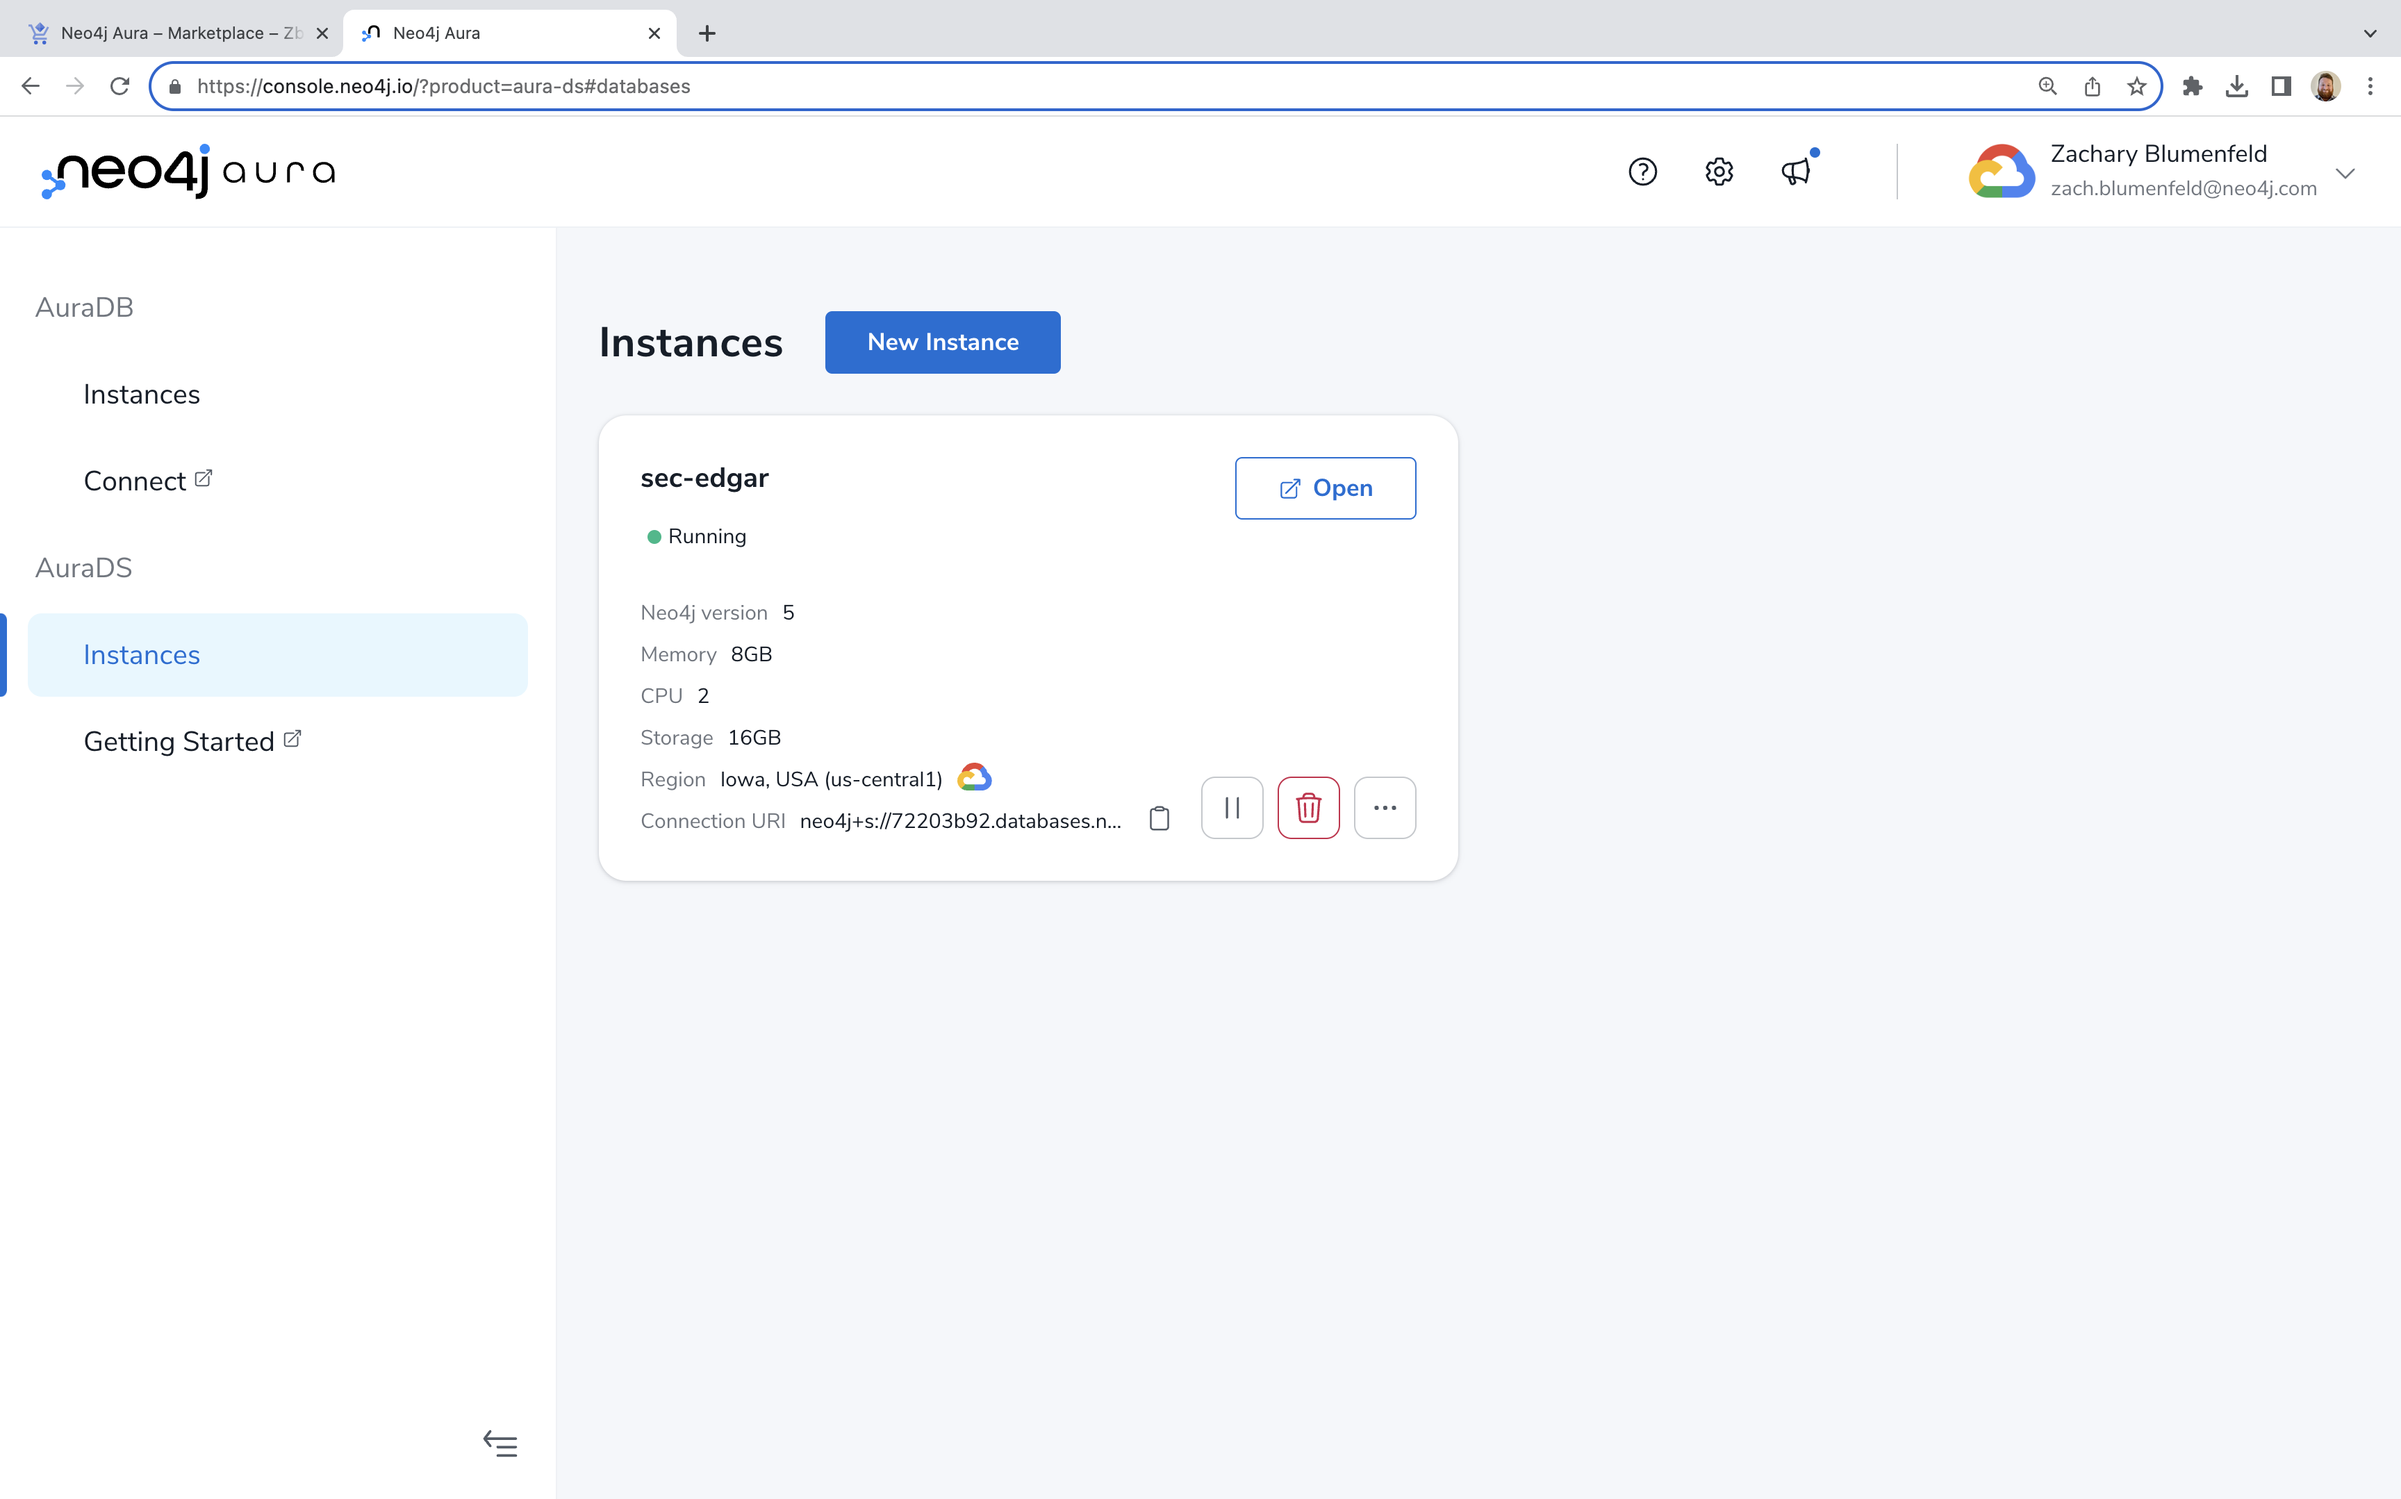
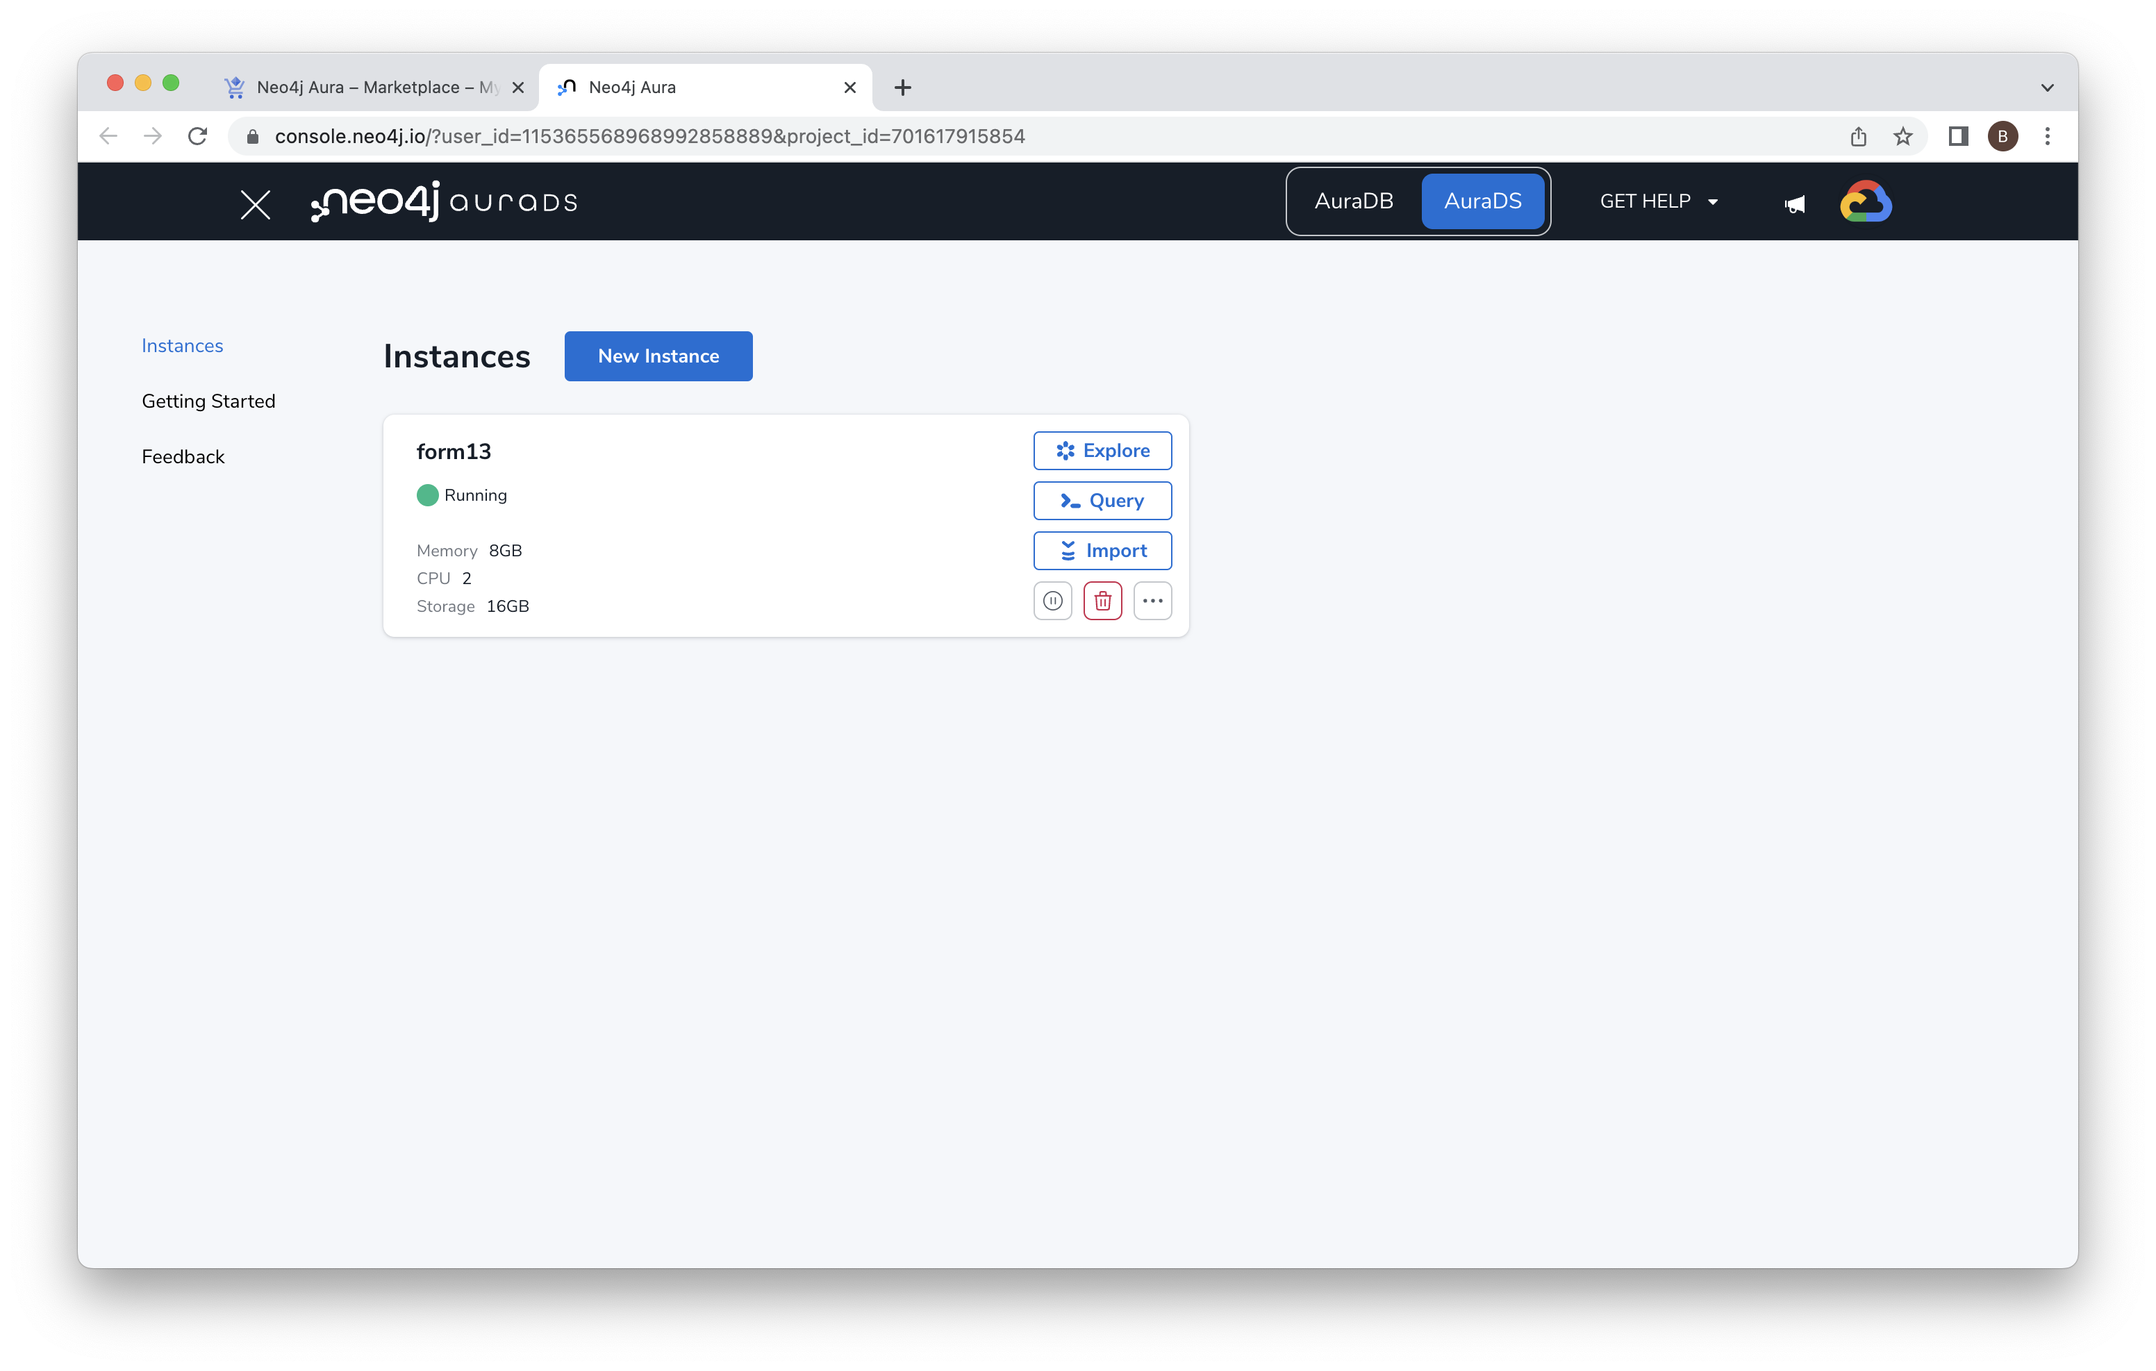
drop workspace from lab 2

diff --git a/Lab 2 - Connect to Neo4j/README.md b/Lab 2 - Connect to Neo4j/README.md
@@ -1,8 +1,5 @@
 # Lab 2 - Connect to Neo4j
-In this lab, we're going to connect to the Neo4j deployment we created in the previous step.  
-
-## Neo4j Workspace
-To get started, open the Neo4j endpoint in the Google Cloud console by navigating [here](https://console.cloud.google.com/marketplace/product/endpoints/prod.n4gcp.neo4j.io).
+In this lab, we're going to connect to the Neo4j deployment we created in the previous step.  To get started, open the Neo4j endpoint in the Google Cloud console by navigating [here](https://console.cloud.google.com/marketplace/product/endpoints/prod.n4gcp.neo4j.io).
 
 Click "MANAGE ON PROVIDER" to get to the Neo4j console.
 
@@ -12,44 +9,39 @@ Once again, you'll need to agreee to the redirect.
 
 ![](images/02-redirect.png)
 
-You should now see the Neo4j Aura console.  Click "Open" on the "sec-edgar" instance we created.
+You should now see the Neo4j Aura console.
 
 ![](images/03-aura.png)
 
-Review and agree to the Neo4j terms.
-
-![](images/04-terms.png)
-
-Enter your password from the previous lab to login.
-
-![](images/05-login.png)
-
-We're now in Neo4j Workspace.  This environment offers three tools:
+For the form13 instance we created, you can see three options:
 
 1. Explore - This will open Neo4j Bloom, the business intelligence tool.
 2. Query - This will open Neo4j Browser, a tool where we can run database queries and inspect the results.
 3. Import - This opens the Neo4j Data Importer, a graphical tool for importing data into Neo4j.
 
-Let's start with Neo4j Browser.  To open it, click the link that says "Query." 
+## Neo4j Browser
+Let's start with Neo4j Browser.  To open it, click the link that says "Query" on the form13 instance you have running.
 
-![](images/07-query.png)
+We're now presented with the Neo4j Browser. We can accept the defaults.  Enter the password from earlier in and then click "Connect."
 
-This is the interface from which you can write Cypher statements.  Cypher is Neo4j's graph query language.  It can be thought of as an analog to SQL, designed specifically to query graphs.  We'll try writing Cypher in later labs.
+![](images/04-browser.png)
 
-We can view the contents of our database by clicking the database icon in the upper left.
+You'll be presented with the Neo4j welcome screen at this point.  If you click on the little database icon in the upper left, you can see the contents of our database.
 
-![](images/08-database.png)
+![](images/05-welcome.png)
 
-There's nothing in our database yet.  We can see the nodes, relationships and property keys are all blank.
+There's nothing in our database yet.  We can see the nodes, relationships and properties areas are all blank.
 
-Before we move on, let's check what version of Neo4j Graph Data Science is set up.  We can do that by entering the following command into the Neo4j Browser:
+![](images/06-contents.png)
+
+Before we move on, let's check what version of Neo4j Graph Data Science (GDS) is set up.  We can do that by entering the following command into the Neo4j Browser:
 
     RETURN gds.version() as version
 
-Then hit the little blue triangle play button to run it.  You should see a Graph Data Science version number.
+Then hit the little blue triangle play button to run it.  You should see a GDS version number.
 
-![](images/09-gds.png)
+![](images/07-gds.png)
+
+Assuming that all looks good, let's move on...
 
 Since we got a Graph Data Science version back, we know that we're on AuraDS, not AuraDB.  This means that we have the libraries we'll need to connect with the Python client and use graph algorithms later in these labs.
-
-This gave us a very brief introduction to Neo4j Workspace.  We'll look at the Query and Explore functionality in more detail in the coming labs.

diff --git a/Lab 1 - Deploy Neo4j/README.md b/Lab 1 - Deploy Neo4j/README.md
@@ -10,7 +10,7 @@ There are many ways to run these products on Google Cloud.  The Marketplace in p
 * Infrastructure as a Service (IaaS) - Neo4j Enterprise Edition is available on IaaS with a Google Deployment Manager template.  That allow you to choose whether you would like a single node or cluster.  It allows configuration of Graph Database, Bloom and Graph Data Science.
 * Platform as a Service (PaaS) - This is an option to deploy Graph Database on Kubernetes.
 
-You can inspect these options [here](https://console.cloud.google.com/marketplace/browse?q=neo4j).
+You can inspect these options [here](https://console.cloud.google.com/marketplace/browse?filter=partner:Neo4j).
 
 ## Deploying AuraDS Professional
 We're going to use the SaaS version, AuraDS, in these labs.  This is sometimes refered to as a database as a service (DBaaS).  Aura comes in a number of flavors.  There's an enterprise and a professional version.  We're going to deploy the professional version.  
